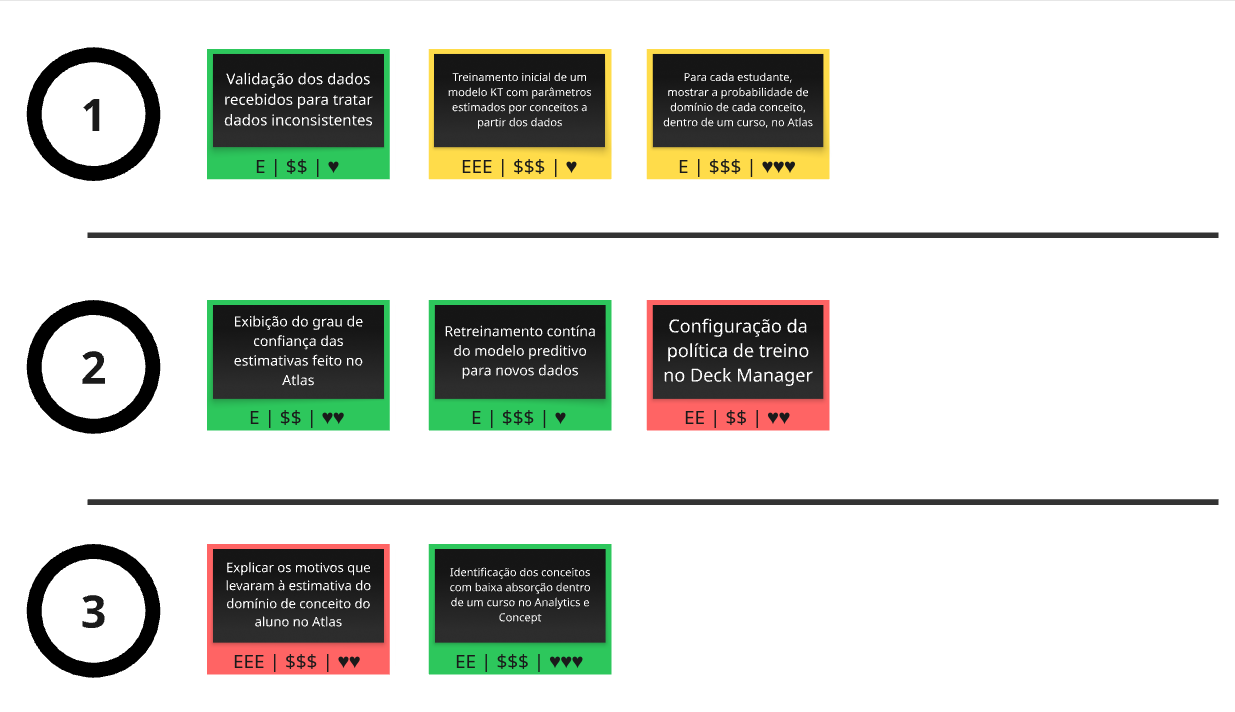
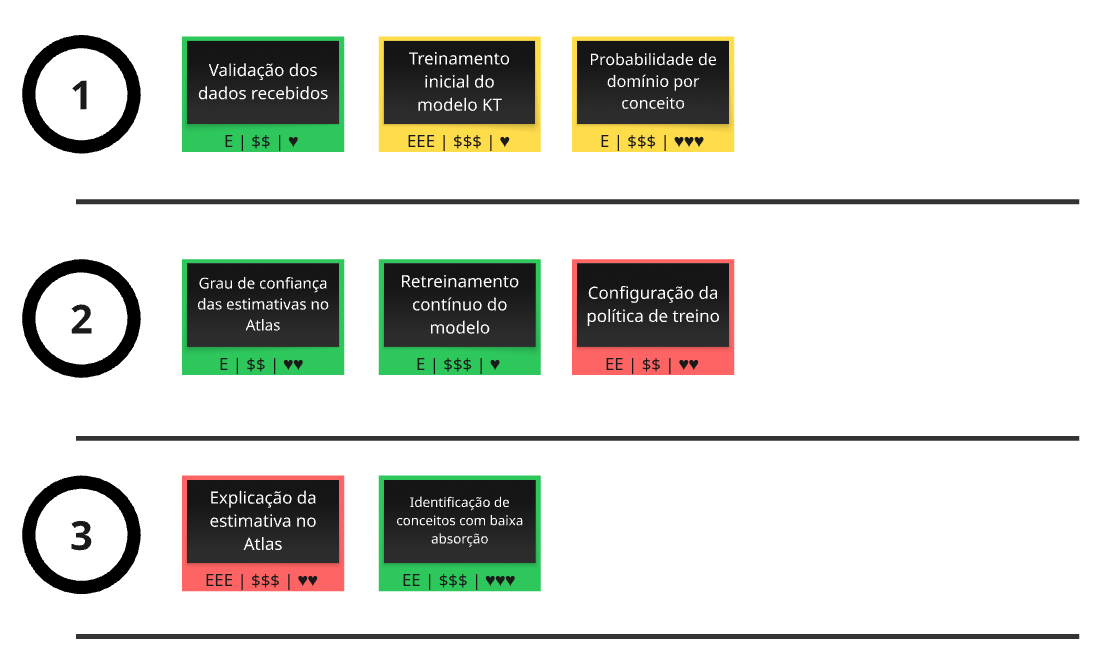
adicao do ref de ml e atualizacao do mvp

diff --git a/editaveis/capitulos/2-refTeorico.tex b/editaveis/capitulos/2-refTeorico.tex
@@ -83,5 +83,109 @@ D
 
 
 \section{Aprendizagem de máquina}
+\label{sec:aprendizagem-maquina}
 
-E
+A Aprendizagem de Máquina (\textit{Machine Learning} -- ML) é a subárea da Inteligência Artificial dedicada ao desenvolvimento de programas capazes de melhorar automaticamente seu desempenho a partir da experiência. Na definição clássica de \citeonline{mitchell_machine_1997}, diz-se que um programa aprende com a experiência $E$, em relação a uma classe de tarefas $T$ e a uma medida de desempenho $P$, se o seu desempenho nas tarefas de $T$, medido por $P$, melhora com a experiência $E$. Em vez de codificar explicitamente as regras de decisão, o desenvolvedor especifica um modelo parametrizado e um critério de otimização, deixando que os parâmetros sejam ajustados a partir de dados observados.
+
+Os métodos de aprendizagem de máquina costumam ser organizados em três paradigmas principais \cite{mitchell_machine_1997}:
+
+\begin{enumerate}
+    \item \textbf{Aprendizagem supervisionada:} o modelo aprende uma função que mapeia entradas a saídas a partir de exemplos rotulados. Quando a saída é categórica, a tarefa é de classificação; quando é contínua, de regressão;
+    \item \textbf{Aprendizagem não supervisionada:} o modelo identifica estruturas latentes em dados não rotulados, como agrupamentos ou representações de menor dimensionalidade;
+    \item \textbf{Aprendizagem por reforço:} um agente aprende uma política de ações por meio da interação com um ambiente, orientado por sinais de recompensa.
+\end{enumerate}
+
+No contexto deste trabalho, interessa sobretudo a aprendizagem supervisionada aplicada a dados sequenciais. A previsão do desempenho de um estudante em uma questão futura constitui um problema de classificação binária — a resposta será correta ou incorreta —, cujos rótulos são obtidos diretamente do histórico de respostas registrado nas plataformas educacionais \cite{cui_rebalancing_2025}. O objetivo do treinamento não é memorizar os exemplos observados, mas generalizar para interações ainda não vistas. Por essa razão, os dados são particionados em conjuntos de treino, validação e teste, frequentemente com validação cruzada em $k$ partições (\textit{k-fold cross-validation}), de modo a detectar o sobreajuste (\textit{overfitting}) — situação em que o modelo se ajusta excessivamente aos dados de treino e perde capacidade de generalização \cite{shen_assessing_2022, nagatani_augmenting_2019}.
+
+Nas últimas décadas, a aprendizagem profunda (\textit{deep learning}) consolidou-se como a vertente de maior expressividade da área. Fundamentada em redes neurais artificiais com múltiplas camadas, ela aprende representações hierárquicas diretamente dos dados brutos, dispensando boa parte da engenharia manual de atributos \cite{lecun_deep_2015}. Arquiteturas como as Redes Neurais Recorrentes (\textit{Recurrent Neural Networks} -- RNN), em especial a variante \textit{Long Short-Term Memory} (LSTM) \cite{hochreiter_long_1997}, e o \textit{Transformer}, baseado em mecanismos de atenção \cite{vaswani_attention_2017}, tornaram-se predominantes na modelagem de sequências. Esse ganho de expressividade, contudo, tem como contrapartida a redução da interpretabilidade: o estado interno de uma rede profunda é um vetor denso cujos componentes, isoladamente, não possuem significado direto para o usuário final \cite{cao_multi-granularity_2025}. Em aplicações educacionais, nas quais docentes e estudantes precisam compreender por que um diagnóstico foi emitido, esse compromisso entre precisão e interpretabilidade é decisivo para a escolha do modelo.
+
+\subsection{Rastreamento de conhecimento (Knowledge Tracing)}
+\label{subsec:knowledge-tracing}
+
+O Rastreamento de Conhecimento (\textit{Knowledge Tracing} -- KT) é a tarefa de modelar a evolução do estado de conhecimento latente de um estudante a partir de suas interações com um sistema de aprendizagem e de prever seu desempenho em interações futuras \cite{corbett_knowledge_1994, shen_assessing_2022}. Trata-se de um componente central de sistemas tutores inteligentes e de plataformas adaptativas, pois a estimativa do domínio de cada conceito fundamenta decisões como a recomendação de exercícios, a priorização de revisões e a identificação precoce de estudantes em risco \cite{liu_enhancing_2026, gao_transformer-based_2025}.
+
+Formalmente, considera-se um conjunto de estudantes, um conjunto de questões e um conjunto de conceitos (\textit{knowledge concepts} -- KC), no qual cada questão está associada a um ou mais conceitos por meio de uma matriz de associação questão--conceito, denominada matriz Q \cite{liu_enhancing_2026}. O histórico de um estudante é representado por uma sequência temporal de interações $X = \{(q_1, a_1), (q_2, a_2), \ldots, (q_t, a_t)\}$, em que $q_i$ é a questão respondida no instante $i$ e $a_i \in \{0, 1\}$ indica se a resposta foi incorreta ou correta. Dado esse histórico, o modelo de KT estima a probabilidade de acerto da próxima questão, $P(a_{t+1} = 1 \mid X, q_{t+1})$, e, de forma subjacente, a probabilidade de domínio de cada conceito \cite{shen_assessing_2022, cui_rebalancing_2025}.
+
+Dois aspectos distinguem o KT de uma classificação convencional. Primeiro, o estado de conhecimento não é diretamente observável: as respostas constituem apenas evidências ruidosas, sujeitas a acertos por chute e a erros por descuido. Segundo, esse estado é dinâmico, pois evolui com a prática e decai com o tempo em razão do esquecimento \cite{nagatani_augmenting_2019}. A literatura propôs diversas famílias de modelos para lidar com esses aspectos, sintetizadas na Tabela~\ref{tab:familias-kt} e detalhadas nas subseções seguintes.
+
+\input{./tables/modelosKT.tex}
+
+\subsubsection{Bayesian Knowledge Tracing}
+\label{subsubsec:bkt}
+
+O \textit{Bayesian Knowledge Tracing} (BKT), proposto por \citeonline{corbett_knowledge_1994}, é o modelo fundador da área e permanece como referência pela clareza de sua formulação. O BKT modela o domínio de cada conceito como um Modelo Oculto de Markov (\textit{Hidden Markov Model} -- HMM) com dois estados latentes — o estudante domina ou não domina o conceito — e observações binárias correspondentes às respostas corretas ou incorretas \cite{pelanek_bayesian_2017, nagatani_augmenting_2019}. Cada conceito é descrito por quatro parâmetros probabilísticos, todos com interpretação pedagógica direta:
+
+\begin{itemize}
+    \item \textbf{Conhecimento inicial ($P(L_0)$):} probabilidade de o estudante já dominar o conceito antes da primeira interação;
+    \item \textbf{Aprendizado ($P(T)$):} probabilidade de transição do estado de não domínio para o de domínio após uma oportunidade de prática;
+    \item \textbf{Chute ($P(G)$):} probabilidade de o estudante acertar a questão sem dominar o conceito (\textit{guess});
+    \item \textbf{Descuido ($P(S)$):} probabilidade de o estudante errar a questão mesmo dominando o conceito (\textit{slip}).
+\end{itemize}
+
+A cada resposta observada, o BKT atualiza a crença sobre o domínio do conceito aplicando o teorema de Bayes. Sendo $P(L_t)$ a probabilidade de domínio antes da interação $t$, a probabilidade a posteriori, condicionada a uma resposta correta ou incorreta, é dada respectivamente pelas Equações~\ref{eq:bkt-correta} e~\ref{eq:bkt-incorreta} \cite{corbett_knowledge_1994, pelanek_bayesian_2017}:
+
+\begin{equation}
+\label{eq:bkt-correta}
+P(L_t \mid a_t = 1) = \frac{P(L_t)\,\bigl(1 - P(S)\bigr)}{P(L_t)\,\bigl(1 - P(S)\bigr) + \bigl(1 - P(L_t)\bigr)\,P(G)}
+\end{equation}
+
+\begin{equation}
+\label{eq:bkt-incorreta}
+P(L_t \mid a_t = 0) = \frac{P(L_t)\,P(S)}{P(L_t)\,P(S) + \bigl(1 - P(L_t)\bigr)\,\bigl(1 - P(G)\bigr)}
+\end{equation}
+
+Em seguida, incorpora-se a possibilidade de aprendizado decorrente da prática, obtendo-se a estimativa de domínio para a próxima interação (Equação~\ref{eq:bkt-transicao}) e, a partir dela, a probabilidade de acerto da próxima questão associada ao conceito (Equação~\ref{eq:bkt-predicao}):
+
+\begin{equation}
+\label{eq:bkt-transicao}
+P(L_{t+1}) = P(L_t \mid a_t) + \bigl(1 - P(L_t \mid a_t)\bigr)\,P(T)
+\end{equation}
+
+\begin{equation}
+\label{eq:bkt-predicao}
+P(a_{t+1} = 1) = P(L_{t+1})\,\bigl(1 - P(S)\bigr) + \bigl(1 - P(L_{t+1})\bigr)\,P(G)
+\end{equation}
+
+Os quatro parâmetros de cada conceito são estimados a partir dos dados históricos, tipicamente pelo algoritmo de Maximização da Expectativa (\textit{Expectation-Maximization} -- EM) ou por busca em grade, sendo comum a imposição de restrições como $P(G) < 0{,}5$ e $P(S) < 0{,}5$ para evitar soluções degeneradas sem sentido pedagógico \cite{pelanek_bayesian_2017}. O resultado é, para cada estudante e conceito, uma probabilidade de domínio $P(L_t)$ que evolui a cada interação e pode ser apresentada diretamente ao usuário.
+
+Essa formulação confere ao BKT propriedades particularmente relevantes para sistemas educacionais em produção. Os parâmetros são interpretáveis por docentes — por exemplo, um valor elevado de $P(G)$ sinaliza questões com alternativas facilmente adivinháveis —, o custo computacional de treinamento e de inferência é baixo e a atualização a cada nova resposta é imediata, o que viabiliza o acompanhamento contínuo do estudante \cite{corbett_knowledge_1994, pelanek_bayesian_2017}. Em contrapartida, o modelo original apresenta limitações conhecidas: representa o conhecimento de forma binária, trata cada conceito de maneira independente, ignorando relações de pré-requisito, desconsidera a dificuldade específica de cada questão e não modela o esquecimento, já que a probabilidade de domínio não decai com o passar do tempo \cite{nagatani_augmenting_2019, cui_rebalancing_2025}.
+
+Diversas extensões foram propostas para mitigar essas limitações sem abandonar a estrutura probabilística. O KT-IDEM (\textit{Item Difficulty Effect Model}) incorpora parâmetros de chute e descuido específicos por questão, introduzindo a dificuldade dos itens no modelo \cite{pardos_kt-idem_2011}. Outras variações acrescentam o efeito do intervalo de tempo entre interações ou do número de tentativas para representar o esquecimento \cite{nagatani_augmenting_2019}. Essas extensões preservam a principal virtude do BKT — uma estimativa de domínio por conceito explicável e de baixo custo —, o que o mantém como base adequada para cenários em que a transparência do diagnóstico é tão importante quanto a precisão.
+
+\subsubsection{Modelos psicométricos e fatoriais}
+\label{subsubsec:modelos-psicometricos}
+
+Em paralelo ao BKT, desenvolveu-se uma família de modelos baseados em funções logísticas, oriunda da psicometria. A Teoria de Resposta ao Item (\textit{Item Response Theory} -- IRT) estima a probabilidade de acerto de uma questão $i$ em função da proficiência $\theta$ do estudante e de parâmetros do item, como a discriminação $a_i$ e a dificuldade $b_i$, conforme o modelo logístico de dois parâmetros \cite{embretson_item_2013, cui_rebalancing_2025}:
+
+\begin{equation}
+\label{eq:irt-2pl}
+P_i(\theta) = \frac{1}{1 + e^{-a_i(\theta - b_i)}}
+\end{equation}
+
+A IRT clássica, contudo, supõe que a proficiência do estudante permanece estável durante a avaliação, o que a torna pouco adequada para acompanhar a aprendizagem ao longo da prática diária \cite{shen_assessing_2022}. A \textit{Performance Factors Analysis} (PFA) adapta essa abordagem ao contexto de aprendizagem ao estimar a probabilidade de acerto a partir da quantidade de acertos e erros anteriores do estudante em cada conceito \cite{pavlik_performance_2009}. Embora permita incorporar atributos adicionais com facilidade, a PFA considera apenas interações relativas ao mesmo conceito e não explora a ordem completa da sequência de respostas \cite{nagatani_augmenting_2019}.
+
+\subsubsection{Deep Knowledge Tracing e modelos profundos}
+\label{subsubsec:dkt}
+
+O \textit{Deep Knowledge Tracing} (DKT), proposto por \citeonline{piech_deep_2015}, introduziu a aprendizagem profunda no rastreamento de conhecimento ao modelar a sequência de interações com uma rede LSTM. Diferentemente do BKT, que mantém uma variável binária por conceito, o DKT representa o estado de conhecimento do estudante como o vetor oculto da rede recorrente, denso e de baixa dimensionalidade, a partir do qual se estima a probabilidade de acerto para todos os conceitos simultaneamente \cite{nagatani_augmenting_2019}. Essa representação permite capturar dinâmicas não lineares e relações implícitas entre conceitos, o que resultou em ganhos expressivos de desempenho preditivo em relação aos modelos clássicos \cite{gao_transformer-based_2025}.
+
+A partir do DKT, a literatura evoluiu em diversas direções. O DKVMN (\textit{Dynamic Key-Value Memory Network}) emprega uma matriz estática de chaves para representar os conceitos e uma matriz dinâmica de valores para registrar o domínio do estudante, recuperando parte da interpretabilidade por conceito \cite{zhang_dynamic_2017}. Modelos baseados em atenção, como o SAKT (\textit{Self-Attentive Knowledge Tracing}) \cite{pandey_self-attentive_2019} e o AKT (\textit{Context-Aware Attentive Knowledge Tracing}) \cite{ghosh_context-aware_2020}, inspirados no \textit{Transformer}, ponderam a relevância de cada interação histórica para a previsão atual, sendo que o AKT incorpora ainda parâmetros de dificuldade inspirados no modelo de Rasch.
+
+Trabalhos recentes têm buscado incorporar explicitamente fatores pedagógicos à modelagem. O DIMKT incorpora a dificuldade das questões e dos conceitos e modela o efeito dessa dificuldade antes, durante e após a prática \cite{shen_assessing_2022}. \citeonline{nagatani_augmenting_2019} estendem o DKT com atributos de esquecimento, como o intervalo desde a última interação com o mesmo conceito e o número de tentativas anteriores. \citeonline{cui_rebalancing_2025} demonstram que boa parte dos ganhos de acurácia dos modelos recentes provém de respostas pouco discriminativas — como acertos em questões fáceis — e propõem reponderar o treinamento para privilegiar as respostas que efetivamente diferenciam os níveis de domínio dos estudantes. Na linha estrutural, o MHAKT modela a transferência de conhecimento entre conceitos e áreas por meio de hipergrafos \cite{liu_enhancing_2026}, enquanto o NaviEdu combina um caminho neural e um caminho baseado em grafo de conceitos para detectar mudanças abruptas de desempenho e convertê-las em intervenções direcionadas \cite{liao_naviedu_2026}. Há ainda propostas que acoplam o KT diretamente à recomendação de exercícios \cite{gao_transformer-based_2025} ou que empregam técnicas de explicabilidade \textit{post hoc}, como valores SHAP, para justificar as previsões a docentes \cite{cao_multi-granularity_2025}.
+
+Em comum, esses trabalhos evidenciam que o aumento do desempenho preditivo dos modelos profundos veio acompanhado de maior complexidade arquitetural, maior demanda por dados e menor transparência do estado latente \cite{liu_enhancing_2026, cao_multi-granularity_2025}. Essa tensão é central para a escolha do modelo em um módulo como o Cognita, que precisa entregar diagnósticos compreensíveis a estudantes e docentes a partir de volumes de dados ainda modestos.
+
+\subsection{Avaliação de modelos de rastreamento de conhecimento}
+\label{subsec:avaliacao-kt}
+
+Por se tratar de uma tarefa de classificação binária probabilística, os modelos de KT são avaliados com métricas que comparam as probabilidades previstas às respostas efetivamente observadas no conjunto de teste. As mais recorrentes na literatura são \cite{shen_assessing_2022, cui_rebalancing_2025, liao_naviedu_2026}:
+
+\begin{itemize}
+    \item \textbf{Área sob a curva ROC (\textit{Area Under the Curve} -- AUC):} mede a capacidade do modelo de ordenar corretamente respostas corretas acima das incorretas, independentemente de um limiar de decisão. Varia de 0 a 1, sendo 0,5 o desempenho de um classificador aleatório;
+    \item \textbf{Acurácia (ACC):} proporção de respostas cuja correção foi prevista acertadamente, considerando em geral o limiar de 0,5 sobre a probabilidade prevista;
+    \item \textbf{Raiz do erro quadrático médio (\textit{Root Mean Squared Error} -- RMSE):} mede a distância média entre a probabilidade prevista e o rótulo observado, refletindo a calibração das probabilidades.
+\end{itemize}
+
+A interpretação dessas métricas exige cautela. Como a proporção de respostas corretas costuma ser elevada nas bases educacionais, um modelo pode obter acurácia alta apenas acertando respostas previsíveis, sem de fato distinguir estudantes com diferentes níveis de domínio \cite{cui_rebalancing_2025}. Além disso, a divisão dos dados deve ser feita por estudante, e não por interação isolada, para evitar que informações de um mesmo estudante apareçam simultaneamente no treino e no teste \cite{nagatani_augmenting_2019, cao_multi-granularity_2025}. Esses cuidados orientam a definição das métricas de qualidade do Cognita e o monitoramento de cada novo treinamento do modelo.
+
+Em síntese, o rastreamento de conhecimento fornece o arcabouço teórico para transformar o histórico de respostas registrado no Ecossistema CEDIS em estimativas de domínio por conceito. Entre as abordagens apresentadas, o BKT destaca-se pela correspondência direta entre seus parâmetros e o fenômeno pedagógico modelado, pela estimativa explícita da probabilidade de domínio de cada conceito e pelo baixo custo de operação, características alinhadas aos objetivos de transparência e de acompanhamento contínuo do módulo proposto neste trabalho. Por esse motivo, o BKT é adotado como modelo principal do MVP do Cognita. Os modelos profundos, em particular o DKT, são tratados como evolução incremental, a ser incorporada à medida que o volume de dados do ecossistema cresça e que se demonstre ganho de desempenho preditivo sobre o BKT, o qual permanece como modelo de referência para comparação e como alternativa de contingência. O DKT viabiliza, ainda, a inferência de relações entre conceitos a partir da influência que o desempenho em um conceito exerce sobre a previsão dos demais \cite{piech_deep_2015}, capacidade ausente no BKT, que trata cada conceito de forma independente.

diff --git a/editaveis/capitulos/4-planejamento.tex b/editaveis/capitulos/4-planejamento.tex
@@ -378,29 +378,30 @@ A estruturação dos sete quadrantes da Figura~\ref{fig:mvp-canvas} amarra de fo
         \item \textit{Aluno Externo:} Praticar questionários públicos com o Learning Passport $\rightarrow$ descobrir lacunas teóricas no Cognita $\rightarrow$ estudar os conceitos indicados e validar autonomamente a evolução do domínio.
     \end{itemize}
 
-    \item \textbf{Funcionalidades (Escopo funcional enxuto do MVP):} Agrupa os blocos de capacidades que compõem as nove ondas do MVP:
+    \item \textbf{Funcionalidades (Escopo funcional enxuto do MVP):} Agrupa os blocos de capacidades que compõem as oito ondas do MVP:
     \begin{itemize}
-        \item Validação de dados recebidos, treinamento inicial e retreinamento contínuo do modelo de \textit{Knowledge Tracing}, configuração da política de treino no Deck Manager e registro de métricas preditivas;
+        \item Validação de dados recebidos, treinamento inicial e retreinamento contínuo do modelo de \textit{Knowledge Tracing} baseado em BKT, configuração da política de treino no Deck Manager e registro de métricas preditivas;
         \item Exibição da probabilidade de domínio por conceito no Atlas do Conhecimento, atualização das estimativas a cada nova interação e listagem de conceitos priorizados para revisão;
         \item Armazenamento do histórico individual das estimativas no Atlas e visualização da evolução temporal da absorção dos conceitos no Learning Analytics;
-        \item Estimativa da proporção de alunos com domínio, identificação e ranqueamento de conceitos com baixa absorção, filtragem de resultados e comparativo entre relações conceituais inferidas e mapeadas;
+        \item Estimativa da proporção de alunos com domínio, identificação e ranqueamento de conceitos com baixa absorção e filtragem de resultados;
         \item Transparência e explicabilidade algorítmica por meio da exibição do grau de confiança, tamanho da amostra e explicação dos motivos das estimativas tanto no Atlas quanto no Analytics;
         \item Indicação visual no Deck Manager dos materiais que necessitam de reforço dentro de um conceito e garantia de privacidade mediante exclusão de dados preditivos vinculados ao passaporte em conformidade com a LGPD.
     \end{itemize}
 
-    \item \textbf{Cronograma (Planejamento temporal das entregas):} Estrutura o horizonte de implementação em 11 \textit{Sprints} de aproximadamente 10 dias cada (de 15/02/2027 a 22/06/2027), compreendendo 9 ondas de desenvolvimento para os 21 requisitos do MVP (respeitando o teto de 5 pontos de esforço \textit{E} por onda) e 2 \textit{sprints} finais de estabilização:
+    \item \textbf{Cronograma (Planejamento temporal das entregas):} Estrutura o horizonte de implementação em 11 \textit{Sprints} de aproximadamente 10 dias cada (de 15/02/2027 a 22/06/2027), compreendendo 8 ondas de desenvolvimento para os 20 requisitos do MVP (respeitando o teto de 5 pontos de esforço \textit{E} por onda) e 3 \textit{sprints} finais de estabilização:
     \begin{itemize}
         \item \textit{Sprints 1 a 3 (15/02 a 20/03/2027):} Base e retreinamento do modelo KT, probabilidade, confiança e explicação de domínio no Atlas e identificação de baixa absorção no Analytics;
         \item \textit{Sprints 4 a 6 (22/03 a 24/04/2027):} Priorização, atualização por interação e histórico no Atlas, ranqueamento e explicação de estimativas no Analytics e registro de métricas de treino;
-        \item \textit{Sprints 7 a 9 (26/04 a 29/05/2027 -- Entrega do MVP):} Proporção de domínio, evolução temporal, filtros, comparativo de relações conceituais, indicação de materiais para reforço no Deck Manager e exclusão de dados preditivos (LGPD);
-        \item \textit{Sprint 10 (31/05 a 10/06/2027) e Sprint 11 (11/06 a 22/06/2027):} Bateria de testes integrados, correções de defeitos, congelamento de código (\textit{code freeze}) e encerramento.
+        \item \textit{Sprints 7 e 8 (26/04 a 18/05/2027 -- Entrega do MVP):} Proporção de domínio, evolução temporal, filtros, indicação de materiais para reforço no Deck Manager e exclusão de dados preditivos (LGPD);
+        \item \textit{Sprint 9 (19/05 a 29/05/2027):} Bateria de testes integrados e correções de defeitos;
+        \item \textit{Sprints 10 e 11 (31/05 a 22/06/2027):} Congelamento de código (\textit{code freeze}) e encerramento.
     \end{itemize}
 
     \item \textbf{Resultado Esperado (Hipóteses qualitativas de valor):} Explicita as quatro transformações esperadas no ecossistema: (i) estudantes capazes de priorizar seus estudos no Atlas do Conhecimento com rapidez e recuperar o domínio de conceitos defasados; (ii) professores identificando precocemente conceitos com baixa absorção na turma para direcionar revisões e materiais antes das avaliações formais; (iii) transição efetiva do Ecossistema CEDIS de métricas puramente descritivas de uso para diagnósticos preditivos de domínio cognitivo via \textit{Knowledge Tracing}; e (iv) adoção confiável do diagnóstico por discentes e docentes — amparada pela explicabilidade das estimativas — mantendo estrita conformidade com a LGPD.
 
     \item \textbf{Métricas para Validar as Hipóteses de Negócio (Indicadores quantitativos):} Define três eixos objetivos de aferição para comprovar o sucesso do MVP:
     \begin{itemize}
-        \item \textit{Métricas de predição do modelo de Knowledge Tracing:} Monitoramento da Acurácia, \textit{F1 Score} e AUC-ROC na estimativa de domínio a cada ciclo de treinamento;
+        \item \textit{Métricas de predição do modelo de Knowledge Tracing:} Monitoramento da AUC, da acurácia (ACC) e da RMSE na estimativa de domínio a cada ciclo de treinamento;
         \item \textit{Taxa de recuperação conceitual:} Evolução observada na probabilidade estimada de domínio e no índice de acerto dos estudantes após revisarem os conceitos priorizados no Atlas;
         \item \textit{Taxa de utilização acionável:} Frequência de acesso dos professores ao painel diagnóstico no Analytics e taxa de cliques dos estudantes nos conceitos recomendados para revisão no Atlas.
     \end{itemize}
@@ -605,7 +606,7 @@ EP07 & TM01 & Privacidade e controle de acesso & O usuário deverá ter os seus 
 \hline
 \multicolumn{4}{l}{Fonte: Elaborado pelos autores.} \\
 \endlastfoot
-RF01 & EP01 & Treinamento inicial do modelo KT & O sistema deverá treinar inicialmente um modelo de \textit{Knowledge Tracing} com parâmetros estimados por conceito a partir dos dados do ecossistema, para que seja possível estimar o domínio conceitual dos estudantes. \\
+RF01 & EP01 & Treinamento inicial do modelo KT & O sistema deverá treinar inicialmente um modelo de \textit{Knowledge Tracing} do tipo \textit{Bayesian Knowledge Tracing} (BKT), com parâmetros estimados por conceito a partir dos dados do ecossistema, para que seja possível estimar o domínio conceitual dos estudantes. \\
 \hline
 RF02 & EP01 & Retreinamento contínuo do modelo & O sistema deverá retreinar continuamente o modelo preditivo com os novos dados recebidos, para que as estimativas se mantenham precisas. \\
 \hline
@@ -613,7 +614,7 @@ RF03 & EP01 & Validação dos dados recebidos & O sistema deverá validar os dad
 \hline
 RF04 & EP01 & Configuração da política de treino & O administrador deverá configurar a política de treino do modelo preditivo no Deck Manager, para que defina quando os treinamentos serão executados. \\
 \hline
-RF05 & EP01 & Registro de métricas de predição & O sistema deverá registrar as métricas de predição (acurácia, \textit{F1 Score}, entre outras) a cada novo treinamento, para que seja possível monitorar e comparar a qualidade do modelo ao longo do tempo. \\
+RF05 & EP01 & Registro de métricas de predição & O sistema deverá registrar as métricas de predição (AUC, acurácia e RMSE) a cada novo treinamento, para que seja possível monitorar e comparar a qualidade do modelo ao longo do tempo. \\
 \hline
 RF06 & EP02 & Probabilidade de domínio por conceito & O estudante deverá visualizar, no Atlas, a probabilidade de domínio de cada conceito de um curso, para que compreenda o seu nível de aprendizado em cada conceito. \\
 \hline
@@ -631,7 +632,7 @@ RF12 & EP04 & Identificação de conceitos com baixa absorção & O professor de
 \hline
 RF13 & EP04 & Listagem de conceitos por nível de absorção & O professor deverá visualizar, no Analytics, os conceitos de um curso ordenados do menor ao maior nível de absorção, para que identifique rapidamente os conceitos mais críticos. \\
 \hline
-RF14 & EP04 & Comparativo entre relações conceituais & O professor deverá visualizar comparativos entre as relações conceituais inferidas pelo modelo preditivo e o mapeamento manual feito no Concept Studio, para que possa validar e aprimorar o mapa conceitual do curso. \\
+RF14 & EP04 & Comparativo entre relações conceituais & O professor deverá visualizar comparativos entre as relações conceituais inferidas por um modelo de \textit{Deep Knowledge Tracing} (DKT) e o mapeamento manual feito no Concept Studio, para que possa validar e aprimorar o mapa conceitual do curso. \\
 \hline
 RF15 & EP04 & Filtragem dos resultados estimados & O professor deverá filtrar os resultados estimados no Analytics, para que concentre a análise nos cursos, conceitos ou grupos de interesse. \\
 \hline
@@ -704,7 +705,7 @@ RNF03 & As telas do Cognita devem ser utilizáveis em dispositivos móveis e com
 \hline
 RNF04 & O serviço de consulta às estimativas de domínio deve ter disponibilidade mensal mínima de 99\%. \\
 \hline
-RNF05 & A cada treinamento, o modelo preditivo deve atingir acurácia mínima de 70\% e \textit{F1 Score} mínimo de 0,70 sobre o conjunto de validação, e só deve substituir o modelo em uso se não apresentar queda superior a 2 pontos percentuais nessas métricas. \\
+RNF05 & A cada treinamento, o modelo preditivo deve atingir, sobre o conjunto de teste e com divisão dos dados por estudante, AUC mínima de 0,65, acurácia (ACC) mínima de 0,70 e RMSE máximo de 0,45, e só deve substituir o modelo em uso se sua AUC não for inferior à do modelo vigente em mais de 0,01. \\
 \hline
 RNF06 & Em caso de falha no retreinamento, o último modelo válido deve permanecer em operação, sem interrupção do serviço de consulta às estimativas. \\
 \hline
@@ -751,7 +752,7 @@ A definição do MVP decorreu da atividade de Ondas (Sequenciador) da \textit{Le
 \caption{Sequenciador do Cognita (ondas 1 a 3)}
 \label{fig:ondas-mvp-1}
 \centering
-\includegraphics[width=\textwidth]{figuras/sequenciador1.png}
+\includegraphics[width=0.9\textwidth]{figuras/sequenciador1.png}
 \legend{Fonte: Elaborado pelos autores.}
 \end{figure}
 
@@ -759,7 +760,7 @@ A definição do MVP decorreu da atividade de Ondas (Sequenciador) da \textit{Le
 \caption{Sequenciador do Cognita (ondas 4 a 6)}
 \label{fig:ondas-mvp-2}
 \centering
-\includegraphics[width=\textwidth]{figuras/sequenciador2.png}
+\includegraphics[width=0.9\textwidth]{figuras/sequenciador2.png}
 \legend{Fonte: Elaborado pelos autores.}
 \end{figure}
 
@@ -782,7 +783,7 @@ A distribuição dos requisitos entre as ondas deve respeitar as seis regras do 
     \item \textbf{Dependências:} se um requisito depende de outro, o requisito do qual ele depende deve estar em uma onda anterior.
 \end{enumerate}
 
-Considerando as regras do sequenciador, os requisitos do MVP foram distribuídos nas nove primeiras ondas da seguinte forma:
+Considerando as regras do sequenciador, os requisitos do MVP foram distribuídos nas oito primeiras ondas da seguinte forma:
 
 \begin{itemize}
     \item \textbf{Primeira onda}
@@ -829,10 +830,6 @@ Considerando as regras do sequenciador, os requisitos do MVP foram distribuídos
         \item RF10 -- Evolução da absorção ao longo do tempo;
         \item RF15 -- Filtragem dos resultados estimados.
     \end{itemize}
-    \item \textbf{Nona onda}
-    \begin{itemize}
-        \item RF14 -- Comparativo entre relações conceituais.
-    \end{itemize}
 \end{itemize}
 
 Após o marco do MVP, foram posicionados os requisitos classificados como incrementos, os quais não serão entregues no escopo do desenvolvimento deste trabalho:
@@ -840,6 +837,7 @@ Após o marco do MVP, foram posicionados os requisitos classificados como increm
 \begin{itemize}
     \item \textbf{Nona onda}
     \begin{itemize}
+        \item RF14 -- Comparativo entre relações conceituais;
         \item RF23 -- Recomendação de materiais de reforço.
     \end{itemize}
     \item \textbf{Décima onda}
@@ -973,10 +971,10 @@ Cognita, orientados aos requisitos funcionais levantados.
 \label{sec:cronograma}
 
 O desenvolvimento do Cognita será conduzido em onze \textit{sprints}. As
-nove primeiras correspondem às ondas do MVP definidas no sequenciador da
+oito primeiras correspondem às ondas do MVP definidas no sequenciador da
 \textit{Lean Inception}; os incrementos
-não serão entregues no desenvolvimento. A décima \textit{sprint} é
-reservada para testes e correções, e a última, para o congelamento de código
+não serão entregues no desenvolvimento. A nona \textit{sprint} é
+reservada para testes e correções, e as duas últimas, para o congelamento de código
 (\textit{code freeze}). A Tabela~\ref{tab:cronograma-ondas} associa cada
 \textit{sprint} aos requisitos entregues, ao escopo da entrega e ao período
 de execução.
@@ -1014,11 +1012,11 @@ de execução.
 \hline
 7 & RF11, RF20, RF24 & Proporção de estudantes com domínio, materiais para reforço e exclusão de dados do passaporte. & 26/04/2027 & 06/05/2027 \\
 \hline
-8 & RF10, RF15 & Evolução da absorção ao longo do tempo e filtros de resultados no Analytics. & 07/05/2027 & 18/05/2027 \\
+8 & RF10, RF15 & Evolução da absorção ao longo do tempo e filtros de resultados no Analytics, concluindo o MVP. & 07/05/2027 & 18/05/2027 \\
 \hline
-9 & RF14 & Comparativo entre relações conceituais do modelo e do mapeamento manual, concluindo o MVP. & 19/05/2027 & 29/05/2027 \\
+9 & -- & Reservada para testes e correções. & 19/05/2027 & 29/05/2027 \\
 \hline
-10 & -- & Reservada para testes e correções. & 31/05/2027 & 10/06/2027 \\
+10 & -- & \textit{Code freeze}. & 31/05/2027 & 10/06/2027 \\
 \hline
 11 & -- & \textit{Code freeze}. & 11/06/2027 & 22/06/2027 \\
 \hline

diff --git a/editaveis/capitulos/1-introducao.tex b/editaveis/capitulos/1-introducao.tex
@@ -17,7 +17,7 @@ Do ponto de vista institucional e docente, a ausência de indicadores diagnósti
 
 No contexto do CEDIS, as restrições arquiteturais da atual infraestrutura de telemetria, que prioriza identificadores efêmeros e eventos de navegação desvinculados do domínio estrutural, bloqueiam o rastreamento longitudinal do aluno e impedem a identificação individual das lacunas de aprendizagem. Diante da lacuna técnica entre a massiva coleta de logs e a incapacidade sistêmica de gerar intervenções didáticas fundamentadas, formula-se o seguinte objetivo de trabalho: investigar e propor uma abordagem de identificação do domínio de conceitos por aluno, a partir dos dados gerados no ecossistema educacional do CEDIS, de forma a apontar individualmente aos alunos os conceitos que potencialmente ainda não dominam e sinalizar aos professores os conceitos com baixa absorção de conhecimento na turma.
 
-Para concretizar esse objetivo, o presente estudo propõe estruturar e desenvolver um \textit{pipeline} de dados focado na identificação contínua do domínio cognitivo. O intuito é transpor a telemetria transacional para uma engenharia de atributos (\textit{feature engineering}) semanticamente rica, garantindo um duplo ciclo de \textit{feedback}: o fornecimento autônomo de vulnerabilidades específicas ao aluno e o envio de evidências agregadas ao professor para adaptações didáticas tempestivas.
+Para concretizar esse objetivo, o presente estudo propõe estruturar e desenvolver um \textit{pipeline} de dados focado na identificação contínua do domínio cognitivo. O intuito é transpor a telemetria transacional para uma engenharia de atributos (\textit{feature engineering}) semanticamente rica, garantindo um duplo ciclo de \textit{feedback}: o fornecimento autônomo de vulnerabilidades específicas ao aluno e o envio de evidências agregadas ao professor para adaptações didáticas tempestivas. Como modelo de estimativa de domínio, adota-se o \textit{Bayesian Knowledge Tracing} (BKT) \cite{corbett_knowledge_1994}, escolhido pela interpretabilidade de seus parâmetros, pelo baixo custo de treinamento e pela adequação a volumes moderados de dados; o \textit{Deep Knowledge Tracing} (DKT) \cite{piech_deep_2015} é considerado como evolução incremental, mantendo-se o BKT como modelo de referência e de contingência.
 
 \section{Metodologia}
 

diff --git a/tables/modelosKT.tex b/tables/modelosKT.tex
@@ -1,0 +1,22 @@
+\begin{table}[H]
+\caption{Síntese das principais famílias de modelos de \textit{Knowledge Tracing}}
+\label{tab:familias-kt}
+\centering
+\small
+\begin{tabularx}{\textwidth}{>{\raggedright\arraybackslash}p{2.6cm}>{\raggedright\arraybackslash}X>{\raggedright\arraybackslash}X>{\raggedright\arraybackslash}X}
+\hline
+\textbf{Família} & \textbf{Representação do estado de conhecimento} & \textbf{Vantagens} & \textbf{Limitações} \\
+\hline
+Probabilística (BKT e extensões) \cite{corbett_knowledge_1994, pardos_kt-idem_2011} & Variável latente binária por conceito (domina / não domina), atualizada por um Modelo Oculto de Markov & Parâmetros com significado pedagógico explícito; baixo custo computacional; funciona com poucos dados por conceito & Conceitos tratados de forma independente; ausência de esquecimento no modelo original; menor poder preditivo \\
+\hline
+Fatorial e psicométrica (IRT, PFA) \cite{embretson_item_2013, pavlik_performance_2009} & Proficiência contínua estimada por função logística a partir de acertos, erros e dificuldade dos itens & Interpretação psicométrica consolidada; incorporação simples de atributos & Desconsidera a ordem completa da sequência de interações; supõe proficiência estável na IRT clássica \\
+\hline
+Profunda recorrente e de memória (DKT, DKVMN) \cite{piech_deep_2015, zhang_dynamic_2017} & Vetor oculto denso (RNN/LSTM) ou matriz de memória chave-valor & Captura dinâmicas não lineares e dependências temporais longas & Estado latente pouco interpretável; demanda grandes volumes de dados \\
+\hline
+Baseada em atenção (SAKT, AKT) \cite{pandey_self-attentive_2019, ghosh_context-aware_2020} & Representação contextual ponderada pelas interações históricas mais relevantes & Elevado desempenho preditivo; pesos de atenção oferecem explicação parcial & Custo computacional maior; sensível a dados esparsos \\
+\hline
+Estrutural e híbrida (grafos, transferência, caminho duplo) \cite{liu_enhancing_2026, liao_naviedu_2026} & Estados por conceito propagados sobre grafos ou hipergrafos de pré-requisitos & Modela relações entre conceitos e generaliza para conceitos pouco observados & Maior complexidade de engenharia e de implantação \\
+\hline
+\end{tabularx}
+\legend{Fonte: Elaborado pelos autores.}
+\end{table}

diff --git a/editaveis/abreviaturas.tex b/editaveis/abreviaturas.tex
@@ -30,4 +30,19 @@
   \item[OAuth2] \textit{Open Authorization 2.0}
   \item[DNT] \textit{Do Not Track}
   \item[IP] \textit{Internet Protocol}
+  \item[BKT] \textit{Bayesian Knowledge Tracing}
+  \item[DKT] \textit{Deep Knowledge Tracing}
+  \item[DKVMN] \textit{Dynamic Key-Value Memory Network}
+  \item[SAKT] \textit{Self-Attentive Knowledge Tracing}
+  \item[AKT] \textit{Context-Aware Attentive Knowledge Tracing}
+  \item[HMM] \textit{Hidden Markov Model} (Modelo Oculto de Markov)
+  \item[EM] \textit{Expectation-Maximization}
+  \item[IRT] \textit{Item Response Theory} (Teoria de Resposta ao Item)
+  \item[PFA] \textit{Performance Factors Analysis}
+  \item[KC] \textit{Knowledge Concept}
+  \item[RNN] \textit{Recurrent Neural Network}
+  \item[LSTM] \textit{Long Short-Term Memory}
+  \item[AUC] \textit{Area Under the Curve}
+  \item[ACC] Acurácia (\textit{Accuracy})
+  \item[RMSE] \textit{Root Mean Squared Error}
 \end{siglas}

diff --git a/tables/conceitosEngSoftware.tex b/tables/conceitosEngSoftware.tex
@@ -1,4 +1,4 @@
-\begin{table}[htb]
+\begin{table}[H]
 \caption{Síntese dos conceitos de Engenharia de Software aplicados ao projeto}
 \label{tab:conceitos-engenharia-software}
 \centering
